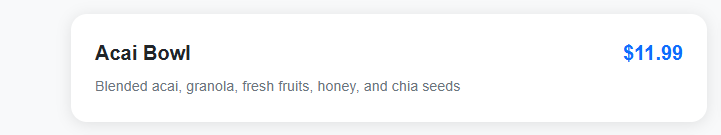
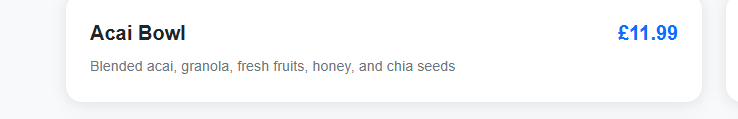
update readme.MD folder

Changed region(s): [[0.1221, 0.5042, 0.6408, 0.7059], [0.1221, 0.2017, 0.2746, 0.4538], [0.8239, 0.2017, 0.9459, 0.4538]]

diff --git a/README.md b/README.md
@@ -71,22 +71,31 @@ A modern, full-featured restaurant booking and management system built with Djan
     They are four categories you can to navigate to, starters, main course, desserts and sides. 
     additionaly you cold navigate by meal type just above menu.
 
-    
+    ![menu](/staticfiles/img/readme.MD%20images/menu.png)
 
   - Filter by meal type (Breakfast, Lunch, Dinner)
     Switch in between the time of the day, mornig afternoon or evening. 
 
-    
+    ![menu options](/staticfiles/img/readme.MD%20images/menu%20options.png)
 
   - Detailed item descriptions and prices
     All menu iteam have secription and price 
 
-
+    ![menu item](/staticfiles/img/readme.MD%20images/menu%20item.png)
 
 
 - **Contact**
+
   - Contact form for inquiries
   - Automated email responses
+
+  On the website you thete is the contact information on the buttom or if user would like to contatk restauration by email, can use contact page. Click on Contactk in navigation bar on the top right corner, the websita wil form will open up. 
+
+  ![contact](/staticfiles/img/readme.MD%20images/contact.png)
+
+    To contact restaurant all form fileds need to be filled in corect way and press send message. 
+    on the right side you cans see address, opening hours and phone number, below you can find map with tag where user can find restaurant.
+
 
 ### Admin Features
 - **Reservation Management**
